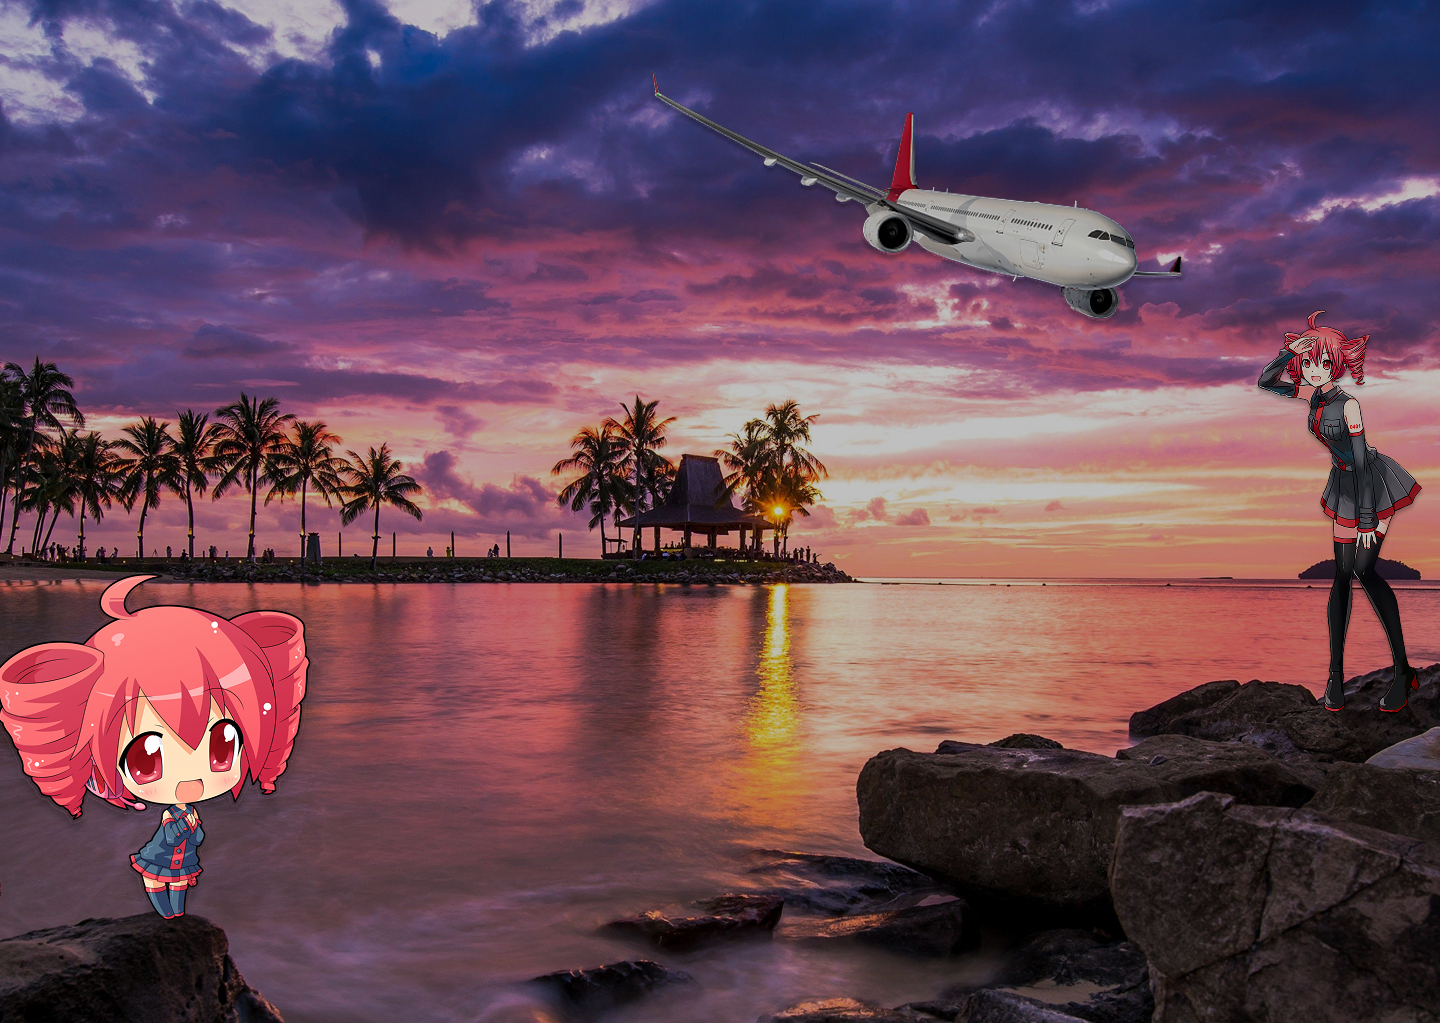
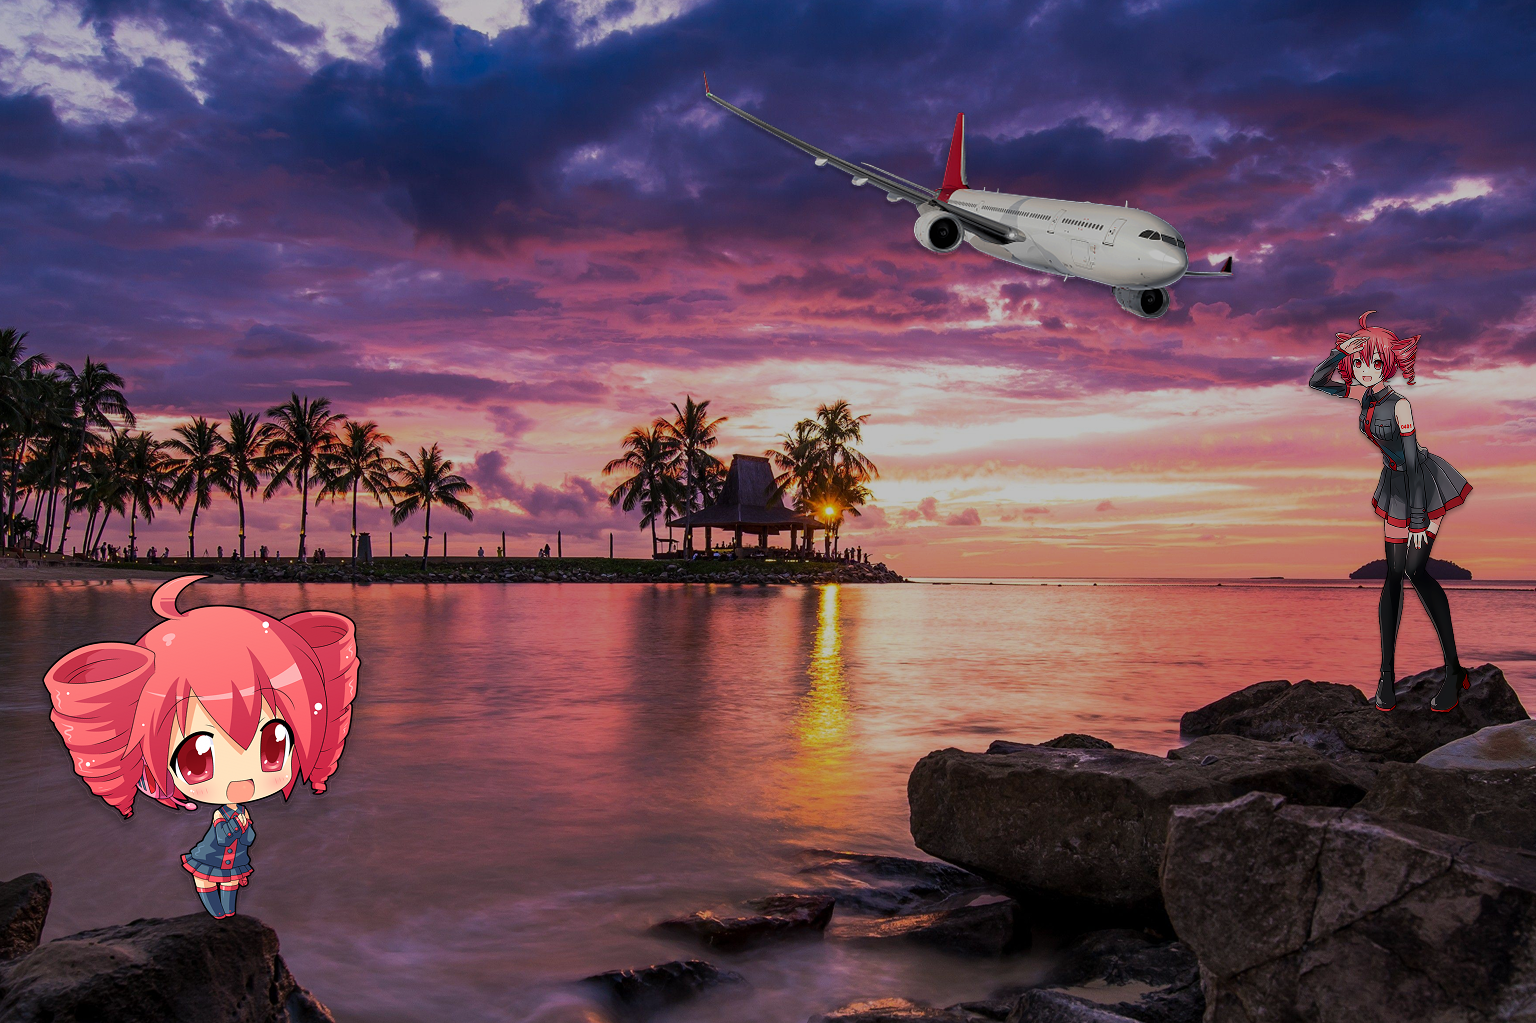
Achtergrond toegevoegd

diff --git a/css/main.css b/css/main.css
@@ -26,6 +26,7 @@ header {
     align-items: center;
     width: 100%;
     height: 20vh;
+    border-bottom: 3px solid #fff;
 }
 
 .nav-bar {
@@ -59,9 +60,15 @@ ul a {
     position: absolute;
     display: flex;
     align-items: center;  
+    top: 5%;
 }
 
 .logo-image {
     width: 100%;
-    height: -40%;
+    height: 100%;
+}
+
+.background-image {
+    width: 40%;
+    height: 100%;
 }

diff --git a/index.php b/index.php
@@ -18,7 +18,9 @@
     <?php include 'header.php'; ?>
 
     <main>
-
+        <div class="background-image">
+            <img src="/img/group 5.png" alt="">
+        </div>
 
 
     </main>
